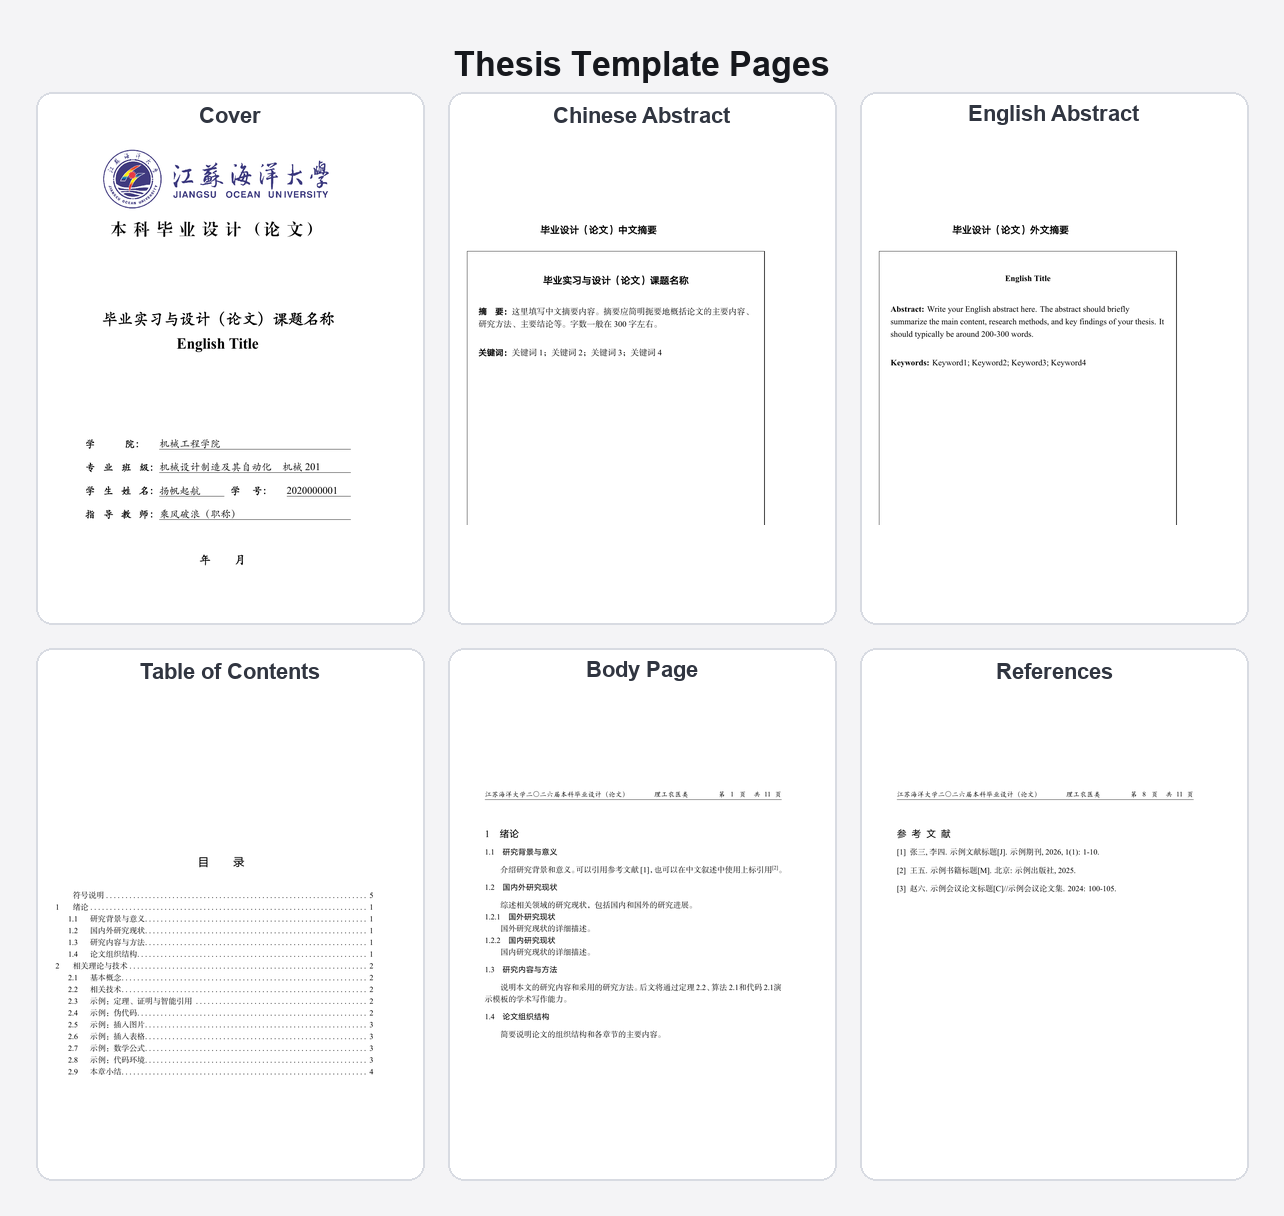
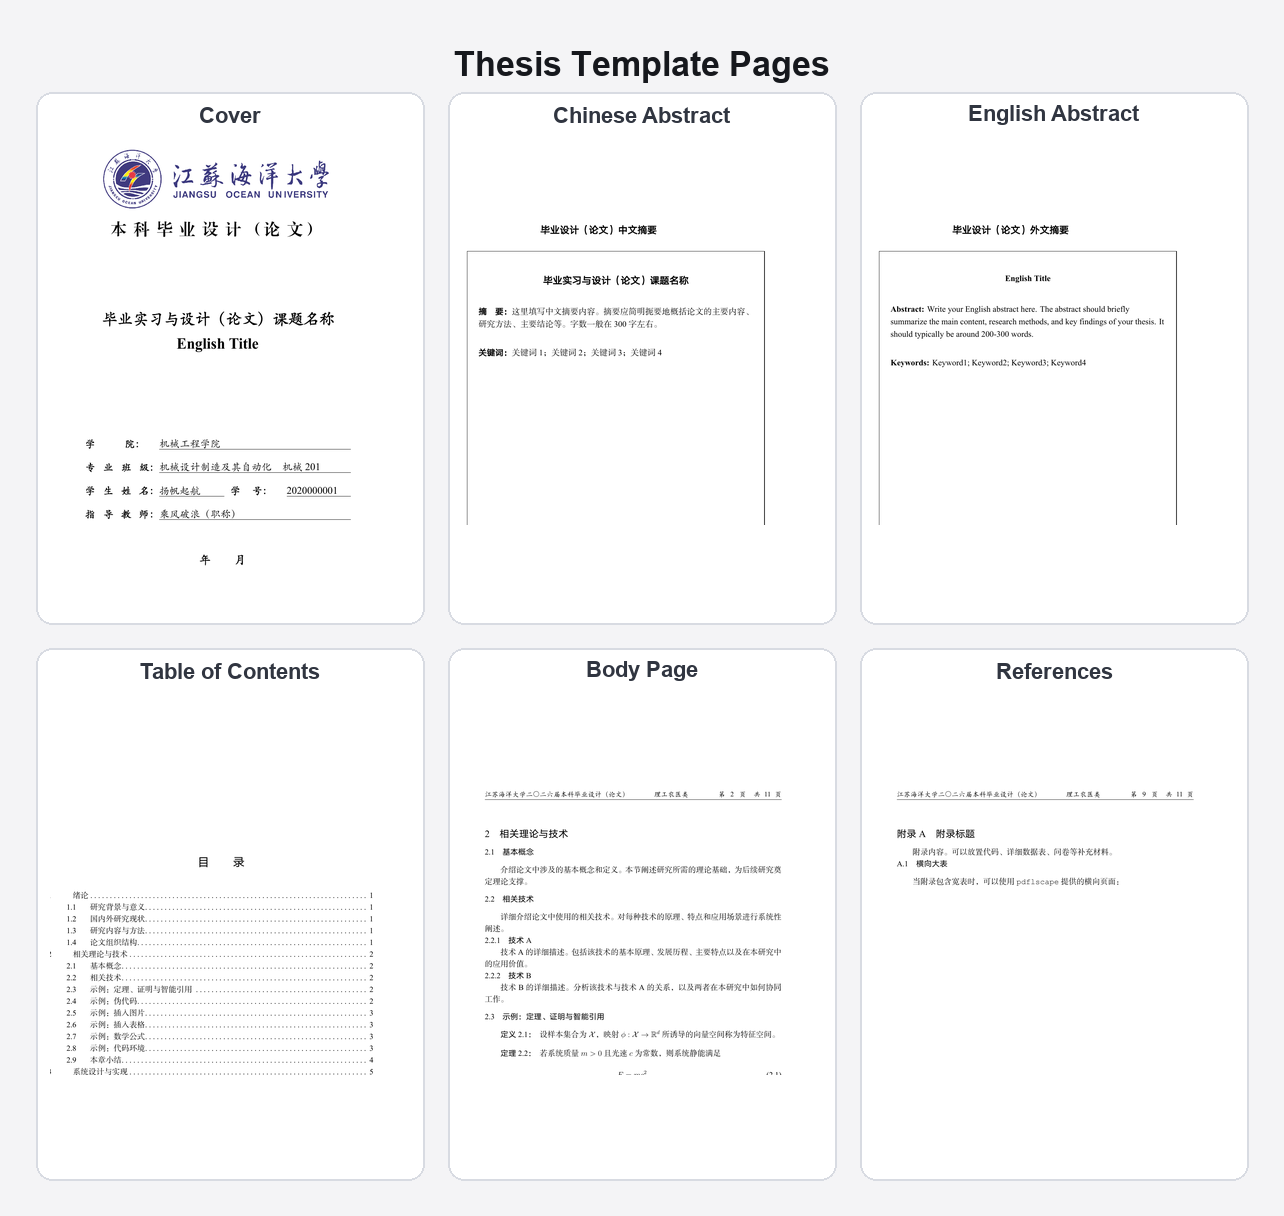
fix: align toc with thesis handbook

Changed region(s): [[0.3738, 0.6562, 0.5919, 0.875], [0.0312, 0.7188, 0.1558, 0.9062], [0.6854, 0.6562, 0.8723, 0.75]]

diff --git a/main.tex b/main.tex
@@ -27,9 +27,6 @@
 \tableofcontents
 \clearpage
 
-% 符号说明（可选）
-\printsymbols
-
 % 图表清单（可选，如有较多图表时使用）
 % \listoffigures
 % \clearpage
